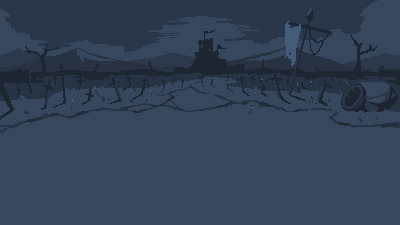
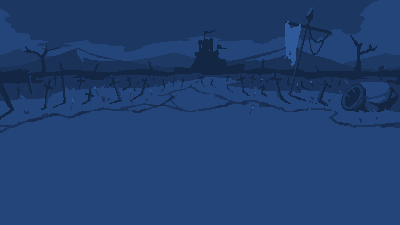
[Feat] Campscene Background change.

diff --git a/Assets/01_Scripts/SceneController/CampBackgroundSet.cs b/Assets/01_Scripts/SceneController/CampBackgroundSet.cs
@@ -12,10 +12,10 @@ public class CampBackgroundSet : MonoBehaviour
     {
         int stageIndex = ProgressDataManager.Instance.StageIndex;
         
-        // 6, 7, 8, 9, 10 스테이지를 1~5로 매핑
+        // 6, 7, 8, 9 스테이지를 2~5로 매핑
         if (stageIndex >= 6)
         {
-            stageIndex = stageIndex - 5;  // 6→1, 7→2, 8→3, 9→4, 10→5
+            stageIndex = stageIndex - 4;  // 6>2, 7>3, 8>4, 9>5
         }
         
         // 캠프 배경 설정
@@ -25,10 +25,7 @@ public class CampBackgroundSet : MonoBehaviour
         Debug.Log($"Texture: {sprite.texture}");
         Debug.Log($"Bounds: {sprite.bounds}");
         
-        // 모닥불 반사광 색 변경 (2,4,5 쪽 스테이지는 파란 배경이라 파란 반사광 재생)
-        if(stageIndex == 2 || stageIndex == 4 || stageIndex == 5 || stageIndex == 7 || stageIndex == 9 || stageIndex == 10)
-        {
-            fireFlareAnimator.SetBool("IsBlueFlare", true);
-        }
+        // 모닥불 반사광 색 변경 (모든 스테이지에서 휴식 씬은 파란 배경으로 설정)
+        fireFlareAnimator.SetBool("IsBlueFlare", true);
     }
 }
